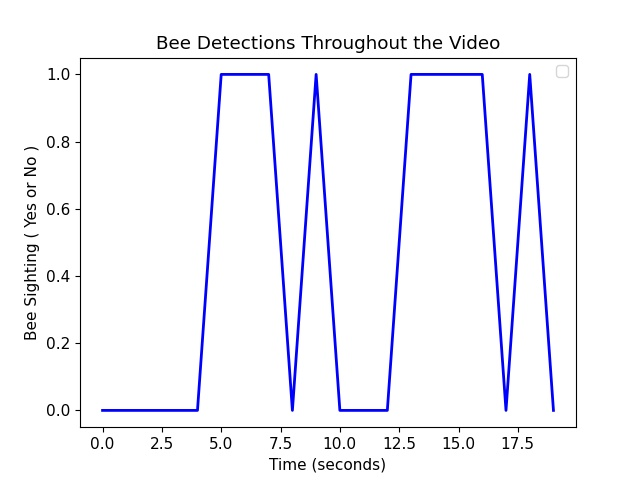
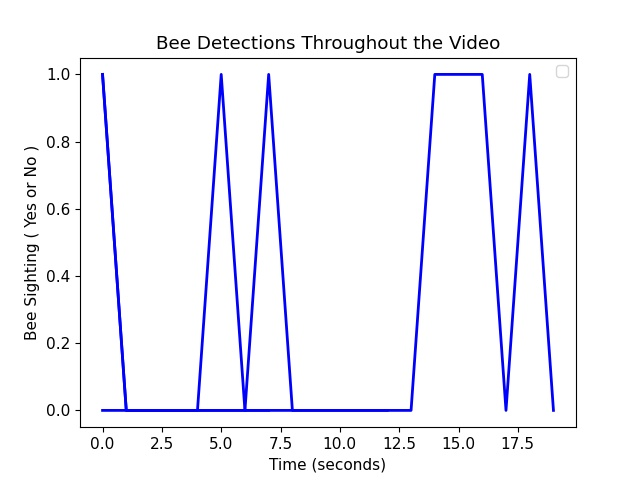
adding redudancy removal changes:

diff --git a/templates/index.html b/templates/index.html
@@ -101,6 +101,7 @@
         <div id="results-section" class="container">
             <h2>Results</h2>
 
+            <p>{{ result.output.filename }}</p>
             <p>{{ result.output.detection_duration }}</p>
             <p>{{ result.output.api_time }}</p>
             <p>{{ result.output.video_duration }}</p>

diff --git a/app.py b/app.py
@@ -85,6 +85,7 @@ def detect():
         total_frames = int(cap.get(cv2.CAP_PROP_FRAME_COUNT))
         fps = int(cap.get(cv2.CAP_PROP_FPS))
         video_duration = int(total_frames / fps)
+        keyframe_interval = fps // 2  # Set the keyframe interval based on frame rate
 
         detection_start_time = time.time()
 
@@ -93,18 +94,20 @@ def detect():
             if not ret:
                 break
             frame_count += 1
+            # keyframe_interval logic
+            if frame_count % keyframe_interval == 0:
+                new_height, new_width = 416, 416
+                new_frame = cv2.resize(
+                    frame, dsize=(new_width, new_height), interpolation=cv2.INTER_CUBIC
+                )
 
-            new_height, new_width = 416, 416
-            new_frame = cv2.resize(
-                frame, dsize=(new_width, new_height), interpolation=cv2.INTER_CUBIC
-            )
+                detections = model(new_frame)
+                # print(f"frame_count - {frame_count}")
 
-            detections = model(new_frame)
-
-            if len(detections.pred[0]) > 0:
-                for x1, y1, x2, y2, conf, cls in detections.pred[0]:
-                    if conf > 0.3:
-                        frame_timestamp_set.add(frame_count)
+                if len(detections.pred[0]) > 0:
+                    for x1, y1, x2, y2, conf, cls in detections.pred[0]:
+                        if conf > 0.3:
+                            frame_timestamp_set.add(frame_count)
 
         cap.release()
 
@@ -181,10 +184,11 @@ def detect():
         result = {
             "success": True,
             "output": {
+                "filename": filename,
                 "csv_filename": csv_file_name,
                 "img_file_name": img_file_name,
-                "detection_duration": f"Time for detection {round(detect_time/60,2)} mins. ",
-                "api_time": f"API running time {round(api_time/60,2)} mins. ",
+                "detection_duration": f"Time for detection {round(detect_time/60,2)} mins or {detect_time} secs",
+                "api_time": f"API running time {round(api_time/60,2)} mins or {api_time} secs ",
                 "video_duration": f"Duration of video uploaded {video_duration} secs or {round(video_duration/60,2)} mins",
             },
         }
